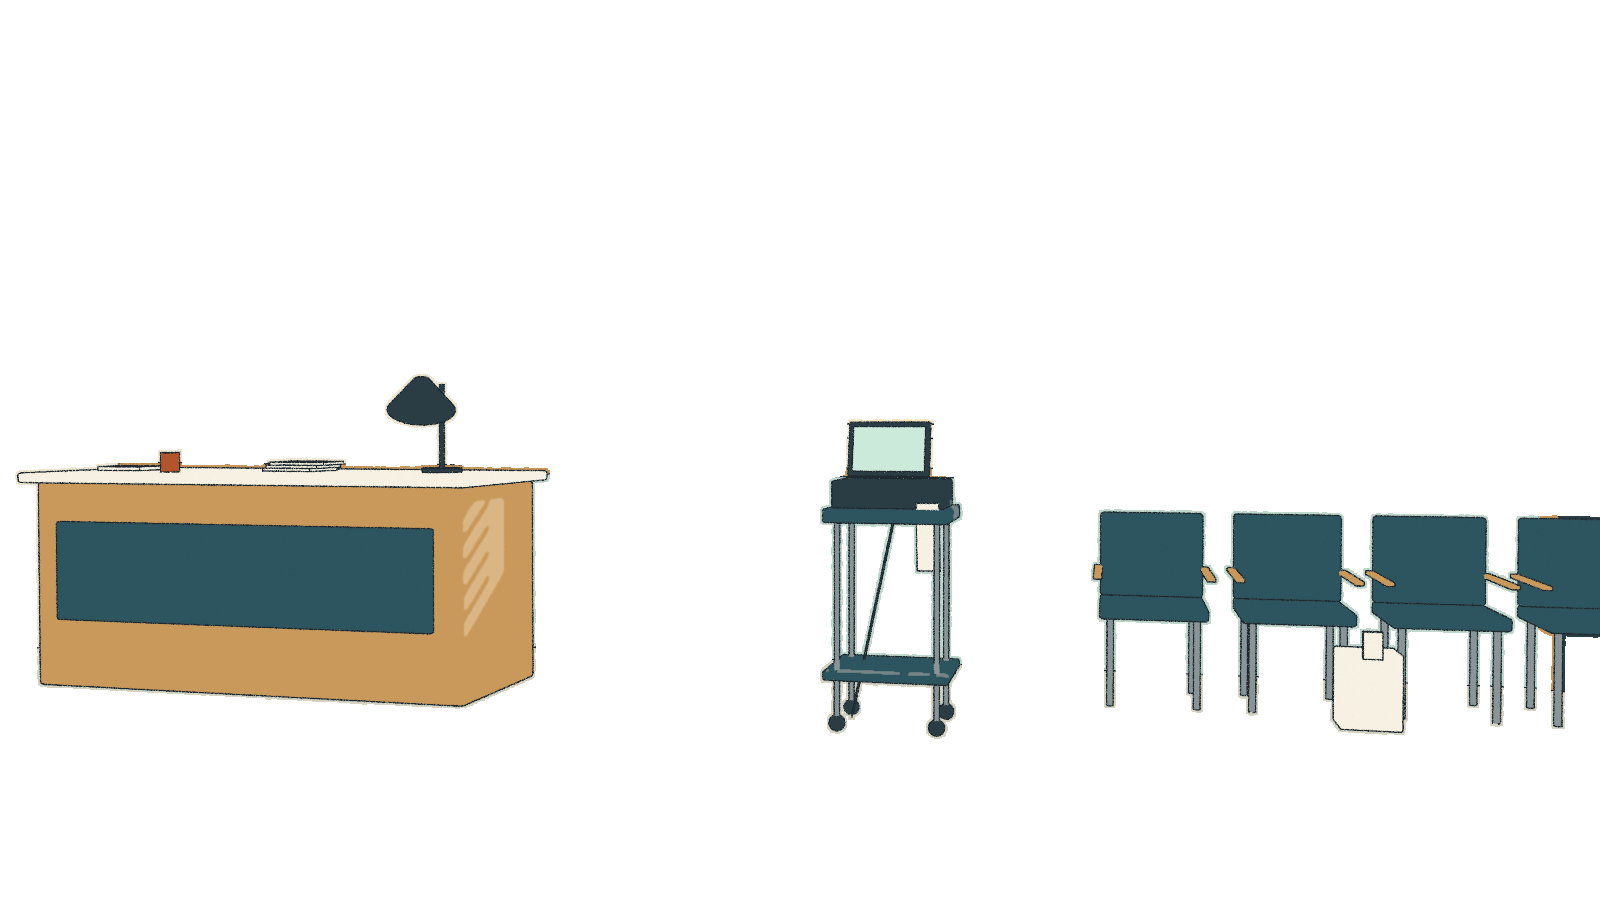
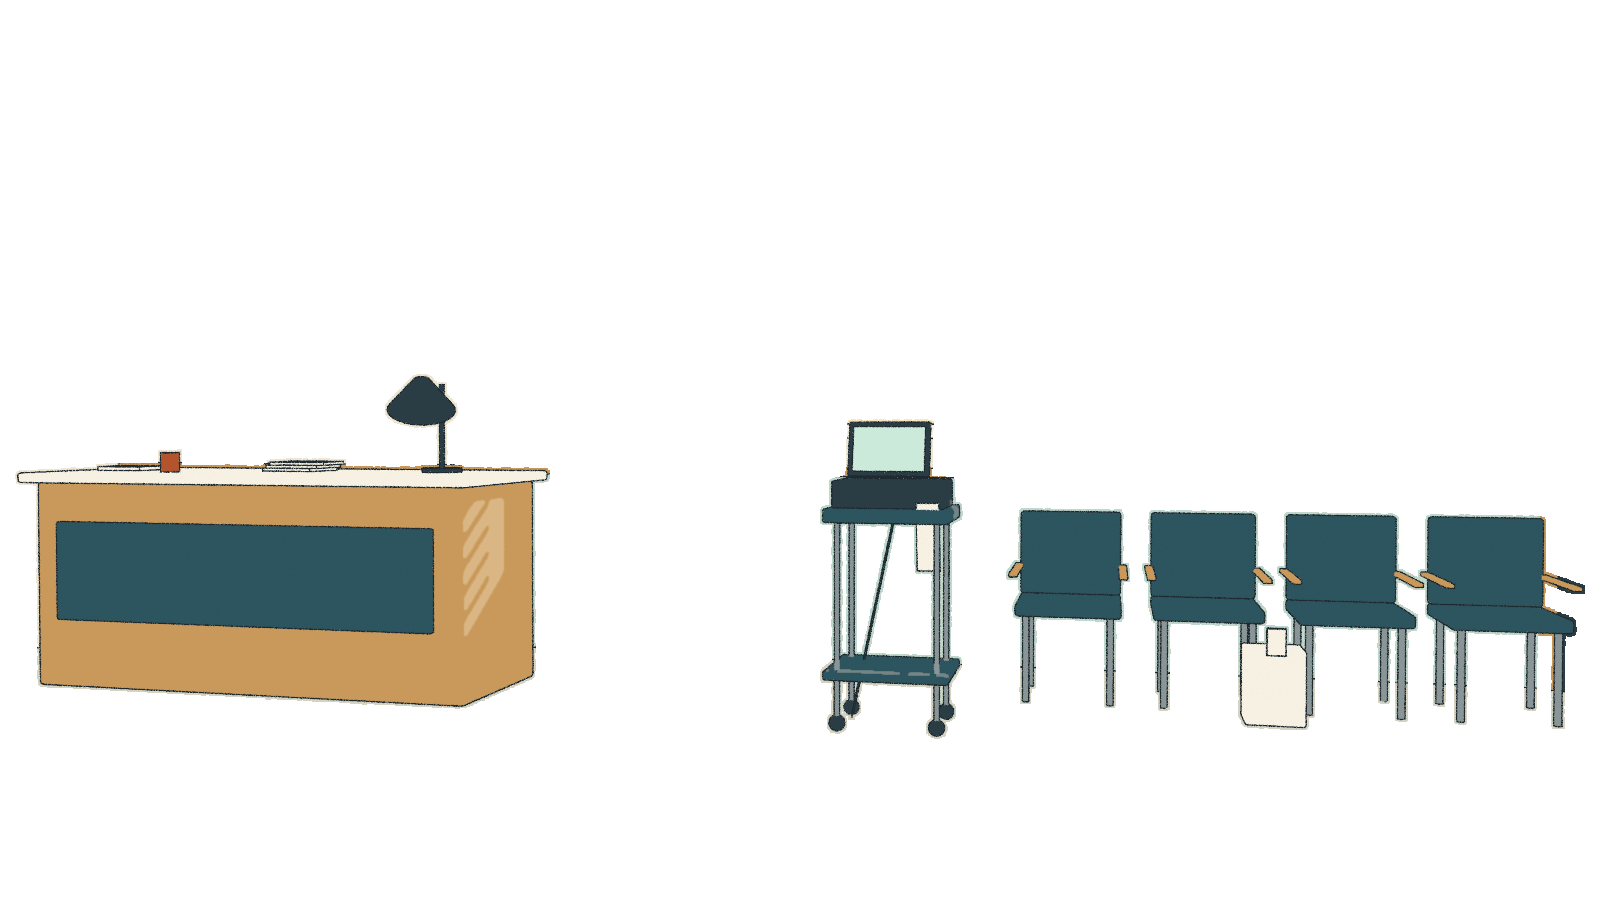
Aufnahme: Stühle weg von der Tür, Uhrzeiger als Engine-Overlay, Logikprüfung in der Art Bible
- Stuhlreihe endet vor dem Türrahmen, Tasche neben Herrn Baums Stuhl
- Zifferblatt ohne Zeiger im Rendering; gen/kunst.py baut die Vordergrund-Ebene
  mit #uhr-std/#uhr-min aus hitboxes.json, die Engine dreht sie nach Spielzeit
- docs/ART_BIBLE.md Abschnitt 7: Wege frei, Dinge am Platz, Uhr geht, Maßstab,
  Bewegung, Hotspots erreichbar

Claude-Session: https://claude.ai/code/session_011iDjXfQPNzmXexzMP81nyj

Changed region(s): [[0.625, 0.56, 1.0, 0.84]]

diff --git a/web/spiel.js b/web/spiel.js
@@ -543,12 +543,12 @@
         },
         {
           id: "herrk", name: "Herr Baum",
-          punkte: [[1365, 516], [1521, 516], [1521, 724], [1365, 724]],
+          punkte: [[1279, 515], [1424, 515], [1424, 720], [1279, 720]],
           bei: function () { global.Dialog.starte("herr_k", "start"); }
         },
         {
           id: "tuete", name: "Plastiktüte",
-          punkte: [[1333, 631], [1404, 631], [1404, 733], [1333, 733]],
+          punkte: [[1241, 628], [1307, 628], [1307, 728], [1241, 728]],
           sichtbar: function () { return hat("darf_tuete"); },
           erledigt: function () { return global.Mappe.hat("b-medis"); },
           bei: tueteAnsehen

diff --git a/gen/blender/szene_aufnahme.py b/gen/blender/szene_aufnahme.py
@@ -108,8 +108,9 @@ for (dx, dz, w, h, rz) in ((-0.42, 0.22, 0.34, 0.26, 0.04), (0.0, 0.25, 0.3, 0.2
     box((w, 0.01, h), (-3.1 + dx, -0.06, 2.25 + dz), G["paper"], "bg", "pinnwand", bevel=0, rot=(0, rz, 0))
 cyl(0.30, 0.05, (2.75, -0.03, 2.35), G["paper"], "bg", "uhr", rot=(math.radians(90), 0, 0), bevel=0.01, name="clock")
 cyl(0.32, 0.03, (2.75, -0.01, 2.35), G["dark"], "bg", "uhr", rot=(math.radians(90), 0, 0), name="clock_rim")
-box((0.03, 0.02, 0.2), (2.75, -0.065, 2.44), G["dark"], "bg", "uhr", bevel=0)
-box((0.17, 0.02, 0.03), (2.69, -0.065, 2.32), G["dark"], "bg", "uhr", bevel=0, rot=(0, 0, math.radians(20)))
+# Zeiger werden NICHT gerendert: sie kommen als SVG-Overlay (#uhr-std, #uhr-min) aus gen/kunst.py
+# und folgen der Spielzeit. Nur Zifferblatt und Mittelpunkt hier.
+cyl(0.012, 0.02, (2.75, -0.07, 2.35), G["dark"], "bg", "uhr", rot=(math.radians(90), 0, 0), v=12, name="clock_pin")
 # дверной проём в правой части задней стены: тёмный коридор с тёплым светом в глубине
 box((1.0, 0.4, 2.2), (4.0, 0.1, 1.1), G["dark"], "bg", "ausgang", bevel=0, name="door_hole")
 box((1.1, 0.06, 0.1), (4.0, -0.05, 2.25), G["wood"], "bg", "ausgang", bevel=0.005, name="door_frame_top")
@@ -157,10 +158,11 @@ def chair(x, y, hit):
             cyl(0.016, 0.42, (x + dx, y + dy, 0.21), G["metal"], "mid", hit, v=10)
     box((0.04, 0.5, 0.02), (x - 0.26, y, 0.62), G["wood"], "mid", hit, bevel=0.005)
     box((0.04, 0.5, 0.02), (x + 0.26, y, 0.62), G["wood"], "mid", hit, bevel=0.005)
-for i, x in enumerate((1.5, 2.15, 2.8, 3.45)):
+# Stuhlreihe endet vor der Tür (Türrahmen ab x=3.47): freier Durchgang bleibt
+for i, x in enumerate((1.1, 1.75, 2.4, 3.05)):
     chair(x, -0.75, "herrk" if i == 2 else None)
-box((0.26, 0.2, 0.34), (2.42, -1.15, 0.17), G["paper"], "mid", "tuete", bevel=0.01, name="bag")
-box((0.08, 0.02, 0.12), (2.42, -1.26, 0.38), G["paper"], "mid", "tuete", bevel=0, name="bag_handle")
+box((0.26, 0.2, 0.34), (2.02, -1.15, 0.17), G["paper"], "mid", "tuete", bevel=0.01, name="bag")
+box((0.08, 0.02, 0.12), (2.02, -1.26, 0.38), G["paper"], "mid", "tuete", bevel=0, name="bag_handle")
 
 # ---------------- свет: рассвет 06:40 ----------------
 # свет из окна (тёплый, низкий, сквозь жалюзи к камере)

diff --git a/gen/kunst.py b/gen/kunst.py
@@ -24,6 +24,7 @@ TINTE     = "#10212B"
 MAGENTA   = "#C2185B"
 PHOSPHOR  = "#39E58C"
 BERNSTEIN = "#E8A33D"
+LINIE     = "#1E2A30"   # Tuschelinie der ligne-claire-Szenen (docs/ART_BIBLE.md)
 
 
 # --------------------------------------------------------------- Werkzeug
@@ -827,6 +828,28 @@ def png_ebene(pfad):
             '" x="0" y="0" width="1600" height="900"/></svg>')
 
 
+def overlay_ebene(ordner):
+    """Bewegliche Teile über einer gerenderten Szene: Uhrzeiger (#uhr-std, #uhr-min), die die
+    Engine nach der Spielzeit dreht. Lage und Größe kommen aus hitboxes.json (Feld "uhr")."""
+    pfad = os.path.join(ordner, "hitboxes.json")
+    if not os.path.exists(pfad):
+        return ""
+    hb = json.load(open(pfad, encoding="utf-8"))
+    teile = []
+    if "uhr" in hb:
+        x0, y0, x1, y1 = hb["uhr"]
+        cx, cy, r = (x0 + x1) / 2, (y0 + y1) / 2, min(x1 - x0, y1 - y0) / 2 * 0.86
+        teile.append(f'<line id="uhr-std" x1="{F(cx)}" y1="{F(cy)}" x2="{F(cx)}" y2="{F(cy - r * 0.52)}" '
+                     f'stroke="{LINIE}" stroke-width="5" stroke-linecap="round" transform="rotate(0 {F(cx)} {F(cy)})"/>')
+        teile.append(f'<line id="uhr-min" x1="{F(cx)}" y1="{F(cy)}" x2="{F(cx)}" y2="{F(cy - r * 0.8)}" '
+                     f'stroke="{LINIE}" stroke-width="3" stroke-linecap="round" transform="rotate(0 {F(cx)} {F(cy)})"/>')
+        teile.append(f'<circle cx="{F(cx)}" cy="{F(cy)}" r="4" fill="{LINIE}"/>')
+    if not teile:
+        return ""
+    return ('<svg viewBox="0 0 1600 900" preserveAspectRatio="xMidYMid slice" '
+            'xmlns="http://www.w3.org/2000/svg">' + "".join(teile) + '</svg>')
+
+
 def baue():
     aus = {"szenen": {}, "portraits": {}}
     hier = os.path.dirname(os.path.abspath(__file__))
@@ -838,7 +861,7 @@ def baue():
             if os.path.exists(pfad):
                 aus["szenen"][name][ebene] = png_ebene(pfad)
             elif os.path.isdir(ordner) and ebene == "vordergrund":
-                aus["szenen"][name][ebene] = ""          # gerenderte Szene: kein gezeichneter Rahmen
+                aus["szenen"][name][ebene] = overlay_ebene(ordner)
     for wer in ("marlene", "herr_k", "falk"):
         aus["portraits"][wer] = portrait(wer)
     return aus

diff --git a/docs/ART_BIBLE.md b/docs/ART_BIBLE.md
@@ -122,3 +122,20 @@ Kittel, Bleistift hinterm Ohr, das EKG-Lineal aus dem Kurs in der Tasche.
 - Frontalansicht ohne jede Tiefe (leichte Dreiviertelansicht oder ein Vordergrund-Element genügt).
 - Mehr als ein Magenta-Objekt.
 - Requisiten ohne Grund im Bild („sieht medizinisch aus") — jedes Ding gehört jemandem.
+
+## 7. Logikprüfung — vor jedem Einchecken einer Szene
+
+Ein Raum muss als Ort funktionieren, nicht nur als Bild. Durchgehen, bevor Ebenen ins Spiel kommen:
+
+1. **Wege frei.** Jede Tür, jeder Durchgang und jeder Ausgang-Hotspot hat freien Boden davor.
+   Kein Stuhl vor der Tür, kein Wagen im Gang.
+2. **Dinge stehen, wo sie gebraucht werden.** EKG-Wagen am Patienten, Monitor dort, wo man ihn
+   vom Platz aus sieht, Lampe über dem Arbeitsplatz. Jedes Ding gehört jemandem.
+3. **Die Uhr geht richtig.** Zeiger werden nie ins Bild gerendert; sie sind ein SVG-Overlay
+   (`#uhr-std`, `#uhr-min`, aus `hitboxes.json` → `gen/kunst.py`) und folgen der Spielzeit.
+   Das Licht im Raum passt zur Uhrzeit des Kapitels (Tabelle in Abschnitt 4).
+4. **Maßstab stimmt.** Stuhl ≈ 0,5 m, Tresen ≈ 1,05 m hoch, Tür ≈ 2,1 m; Figuren stehen auf dem
+   Boden, Füße auf der Bodenlinie, nicht davor schwebend.
+5. **Es bewegt sich etwas.** Figuren atmen (`class="atmet"` auf ihrem Element), Parallaxe
+   läuft, Bildschirme zeigen die laufende Kurve. Eine Szene ohne jede Bewegung ist nicht fertig.
+6. **Hotspots sind erreichbar** und überlappen nicht: Tür, Figur, Gegenstand getrennt.
